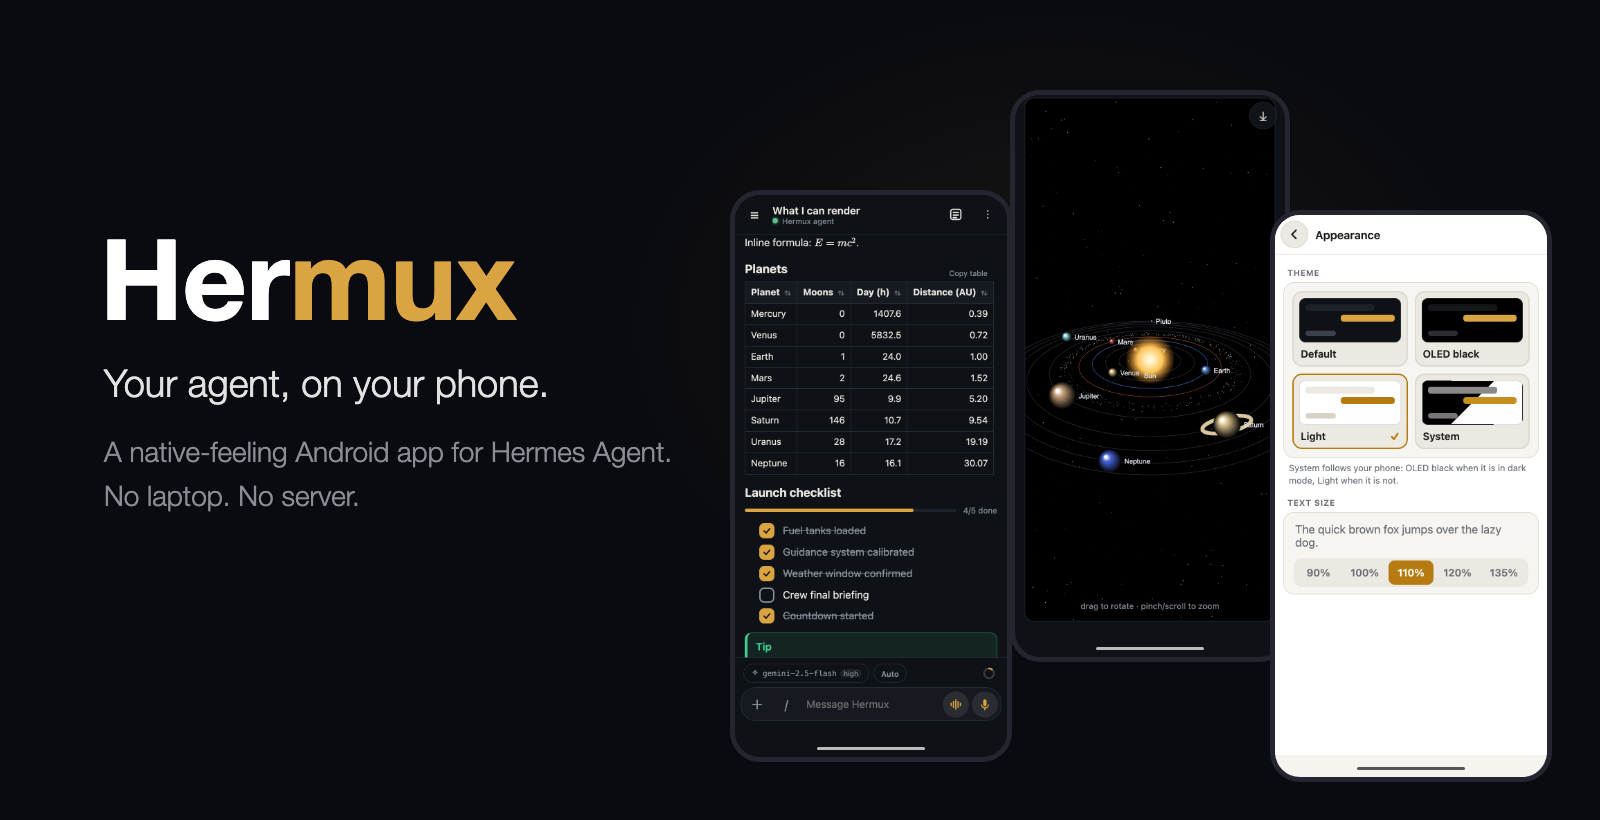
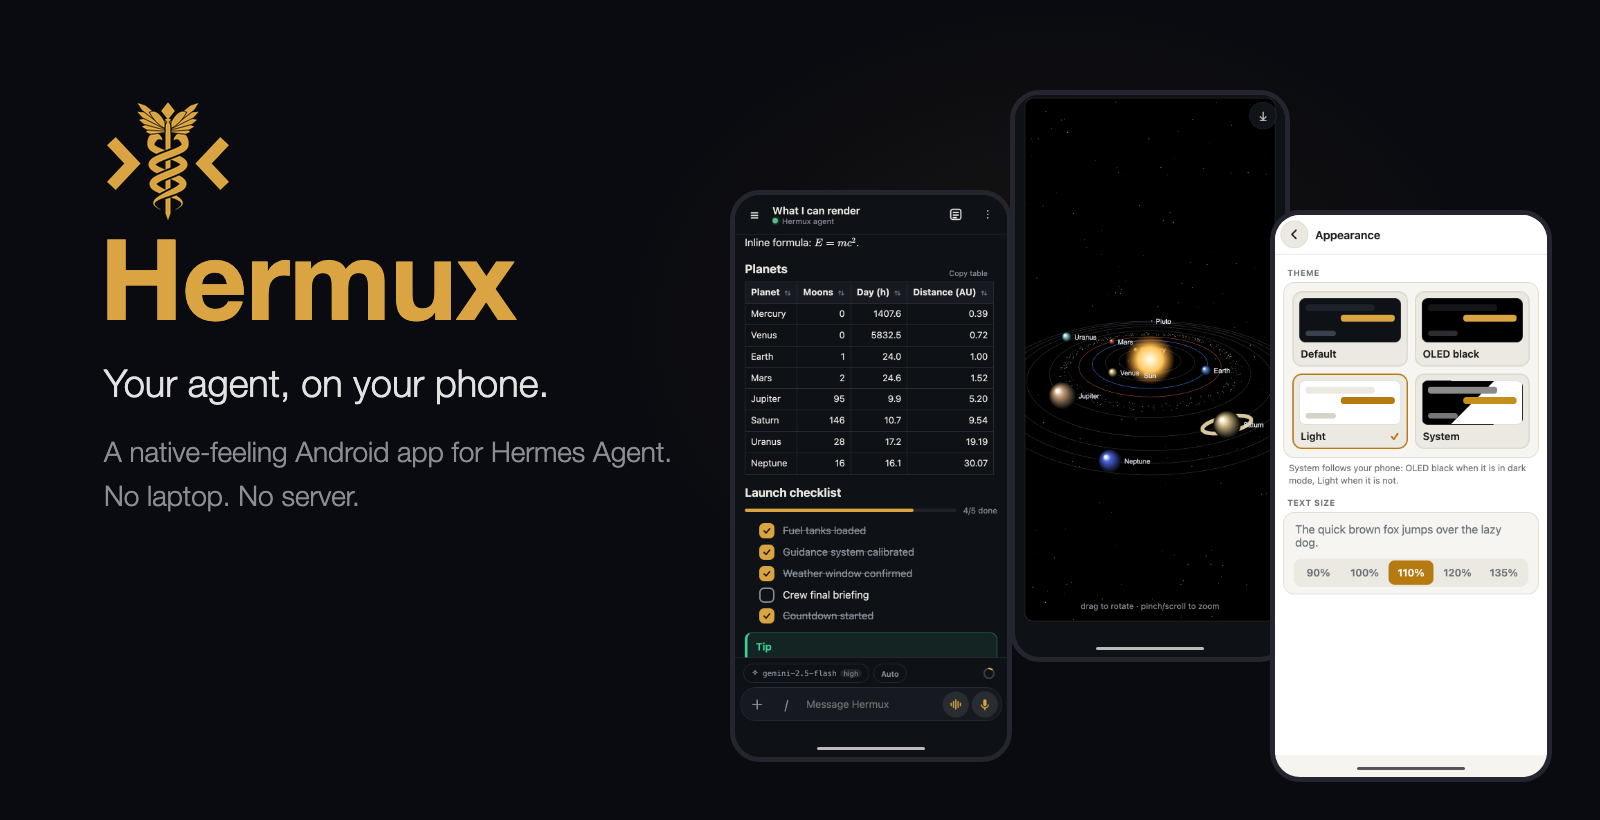
README top picture: the new mark above the name, and the name in one gold colour
docs/img/hero.png now shows the Hermux mark (the launcher icon's caduceus and arrows) above the name, and the whole
word Hermux is gold instead of white and gold. docs/status/launcher-icon.md notes it. Only the picture and that
note change; nothing in the app.

Changed region(s): [[0.0625, 0.122, 0.1875, 0.3963]]

diff --git a/docs/status/launcher-icon.md b/docs/status/launcher-icon.md
@@ -3,7 +3,7 @@
 **State** (2026-11-03): new adaptive icon (gold caduceus and `> <` on near-black), see
 [hermux-launcher-icon.md](../decisions/hermux-launcher-icon.md). Source `android/icon/hermux-icon.svg`; the PNGs and the
 SVG come from `tools/icon/make-icon.cjs`. The monochrome (themed icon) layer is the same image with transparent gaps.
-Nothing else in the app, README images or docs showed the old launcher artwork.
+Nothing else in the app or docs showed the old launcher artwork. The README top picture (`docs/img/hero.png`) carries the mark above the name, and the name is one gold colour (2026-11-03).
 
 **Next:** decide whether the drawer's Hermux tile (still the ☤ glyph) should use the mark; decide whether the small notification icon should become a simpler mark that matches (owner has not decided).
 
